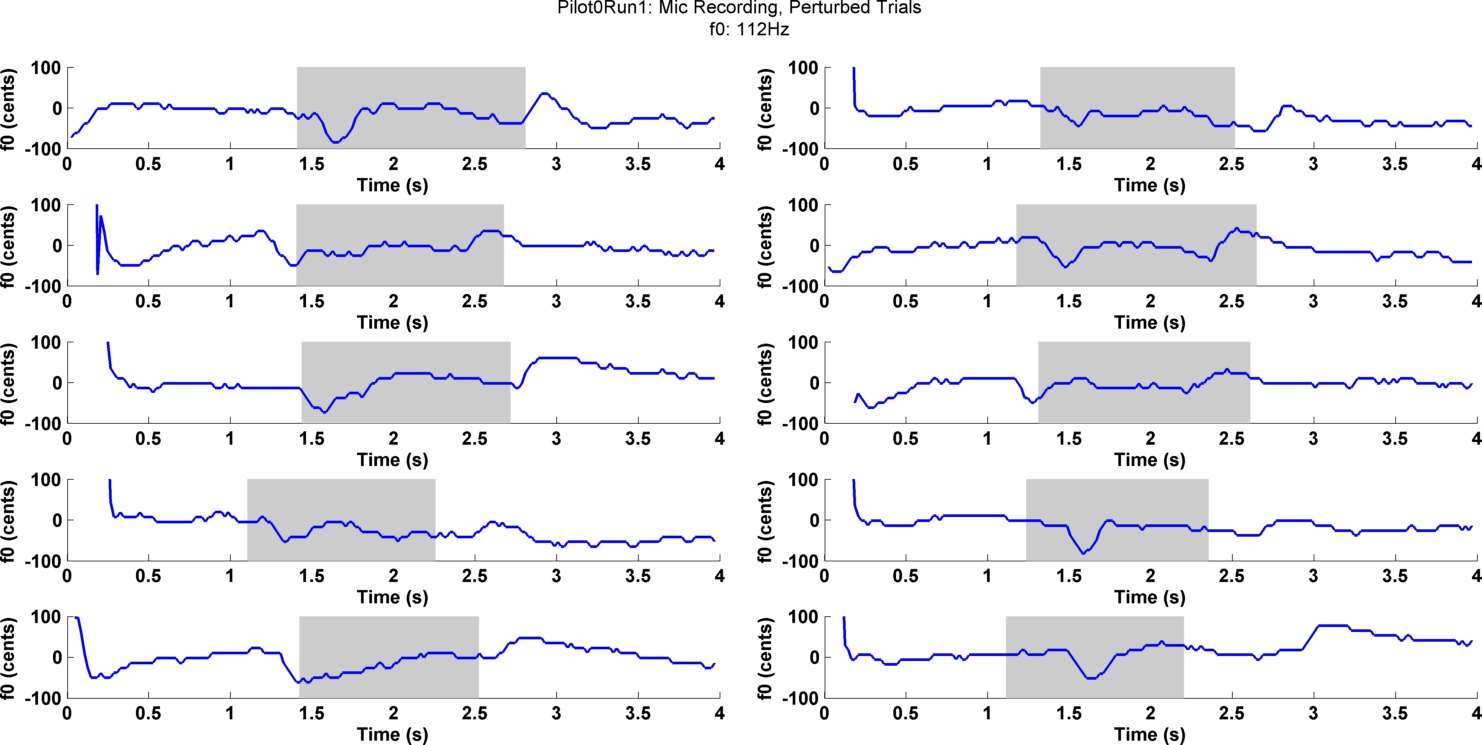
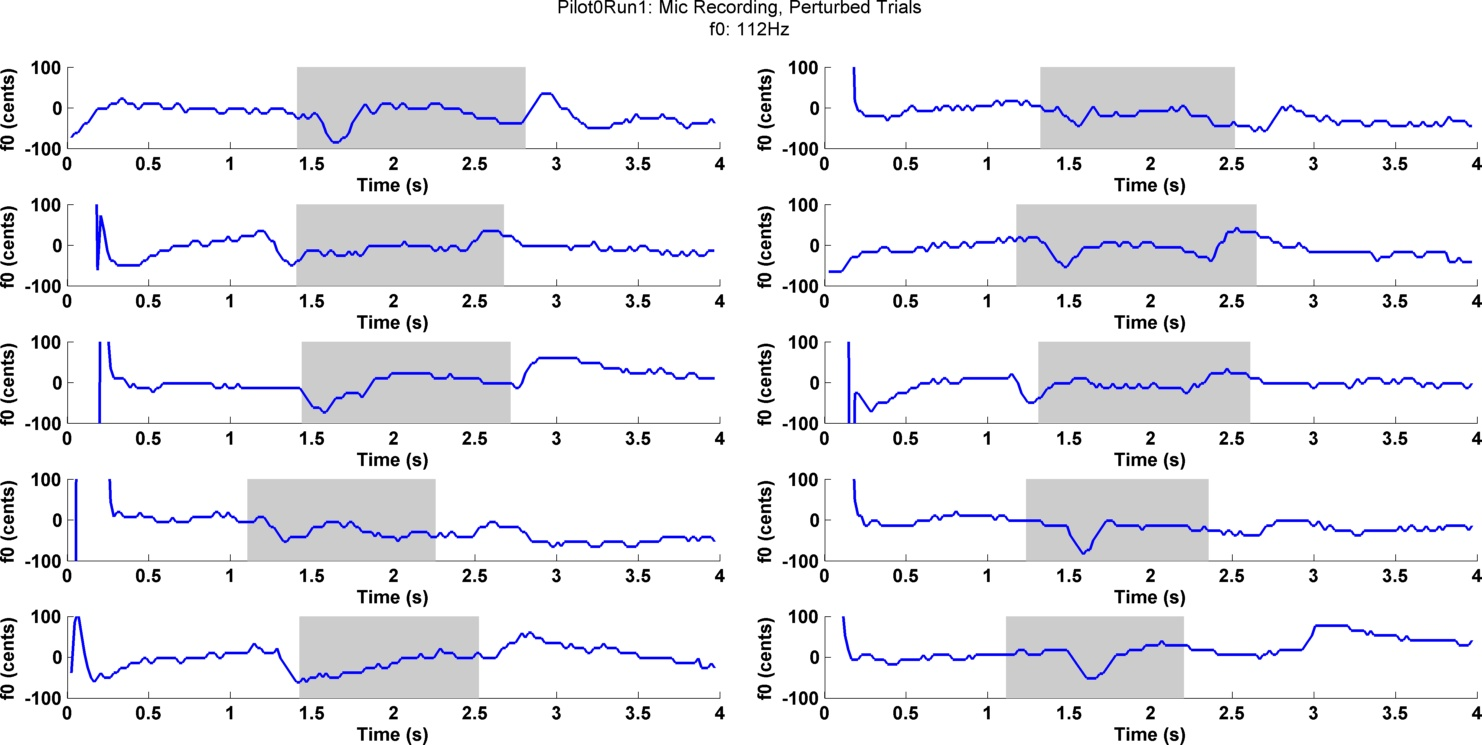
Reduced the low-pass filter to 300Hz
Made the calculation of f0 go a little smoother, but there are still
potential problem points for lag

diff --git a/Analysis/dfRunSubjAnalysis.m b/Analysis/dfRunSubjAnalysis.m
@@ -37,12 +37,12 @@ fprintf('Loading Files for %s %s\n', AVar.participant, AVar.run)
 load(dirs.SavFileDir)
 
 [auAn, res] = dfAnalysisAudapter(DRF.expParam, DRF.rawData, DRF.DAQin);
-% niAn = dfAnalysisNIDAQ(DRF.expParam, DRF.DAQin);
+niAn = dfAnalysisNIDAQ(DRF.expParam, DRF.DAQin);
 
 % drawDAQAll(niAn, 2, dirs.SavResultsDir, 1)
 drawInterTrialf0(res.timeSec, res.meanTrialf0_St, res.meanTrialf0_Sp, res.f0LimitsSec, res.trialCount, res.meanTrialf0b, auAn.curSess, '', dirs.SavResultsDir)
 drawAllTrialf0(res.time, res.allTrialf0, res.runTrialOrder, auAn.trigsT, res.f0Limits, res.meanTrialf0b, auAn.curSess, '', dirs.SavResultsDir)
-drawAudResp_AllTrial(res, auAn.curSess, DRF.expParam.curRec, dirs.SavResultsDir)
+drawAudResp_AllTrial(res, auAn.curSess, DRF.expParam.curExp, dirs.SavResultsDir)
 
 drawAudResp_InterTrial(res.timeSec, res.meanTrialf0_St(:,:,2), res.meanTrialf0_Sp(:,:,2), res.f0LimitsSec, res.trialCount, res.meanTrialf0b, auAn.curSess, '', dirs.SavResultsDir)
          

diff --git a/Analysis/dfAnalysisAudapter.m b/Analysis/dfAnalysisAudapter.m
@@ -197,9 +197,9 @@ pp.voiceOnsetInd = pp.threshIdx(1);
 pp.fallOffLog = pp.xenv(pp.voiceOnsetInd:end) < pp.thresh*pp.maxPeak;
 pp.chk4Break = sum(pp.fallOffLog) > 0.3*fs; %Last longer than 300ms
 
-[B,A]    = butter(4,(2000)/(fs/2));
-filtx    = filtfilt(B,A,x); %Low-pass filtered under 2kHz
-filty    = filtfilt(B,A,y); %Low-pass filtered under 2kHz
+[B,A]    = butter(4,(300)/(fs/2));
+filtx    = filtfilt(B,A,x); %Low-pass filtered under 500Hz
+filty    = filtfilt(B,A,y); %Low-pass filtered under 500Hz
  
 micP     = filtx; %Take the whole signal for now
 headP    = filty; %Same indices as for mic 
